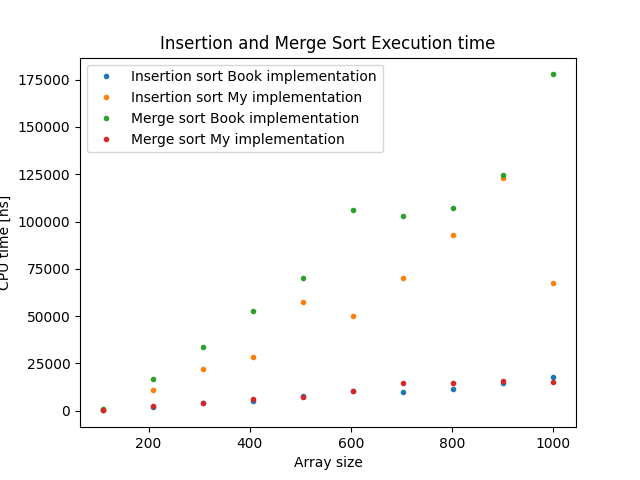
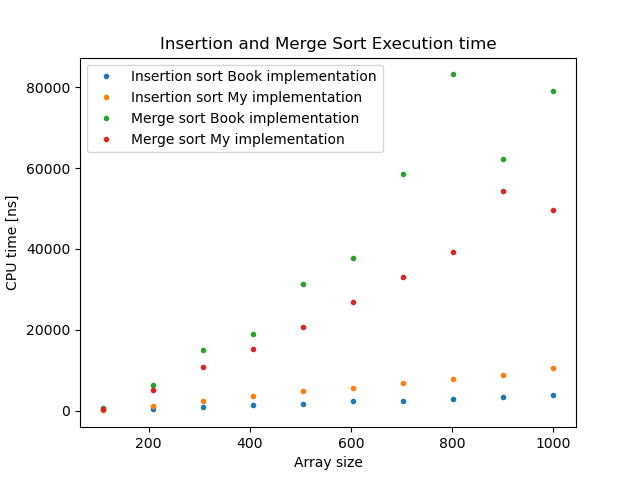
Benchmarks were rerunned to make sure they're up to date

diff --git a/execution_time_plot.py b/execution_time_plot.py
@@ -11,55 +11,55 @@ import matplotlib.pyplot as plt
 list_size = 1000
 
 book_insertion_sort_execution_time : list[int] = [
-	118,
-	2081,
-	4199,
-	5103,
-	7679,
-	10362,
-	10086,
-	11335,
-	14838,
-	17928
+	33.9,
+	435,
+	837,
+	1267,
+	1681,
+	2375,
+	2476,
+	2797,
+	3258,
+	3814
 ]
 
 insertion_sort_execution_time : list[int] = [
-	449,
-	10805,
-	22131,
-	28088,
-	57418,
-	49977,
-	70024,
-	92730,
-	123083,
-	67729
+	60.9,
+	1133,
+	2388,
+	3503,
+	4723,
+	5649,
+	6733,
+	7807,
+	8901,
+	10511
 ]
 
 book_merge_sort_execution_time : list[int] = [
-	949,
-	16820,
-	33463,
-	52794,
-	70155,
-	106114,
-	102769,
-	107059,
-	124373,
-	177801
+	538,
+	6382,
+	14878,
+	18908,
+	31335,
+	37715,
+	58541,
+	83224,
+	62167,
+	79170
 ]
 
 merge_sort_execution_time : list[int] = [
-	109,
-	2460,
-	4052,
-	6294,
-	7183,
-	10234,
-	14478,
-	14357,
-	15421,
-	15205
+	322,
+	5011,
+	10806,
+	15200,
+	20726,
+	26855,
+	33037,
+	39133,
+	54446,
+	49663
 ]
 n : list[int] = [i for i in range(10+int((list_size-10)/10),list_size+9,int((list_size-10)/10))]
 

diff --git a/Benchimarking.md b/Benchimarking.md
@@ -60,39 +60,39 @@ Load Average: 0.31, 0.24, 0.25
 ---------------------------------------------------------------------------------------------------------
 Benchmark                      Time             CPU   Iterations malloc avr size malloc calls malloc size
 ---------------------------------------------------------------------------------------------------------
-BM_MergeSort/10              449 ns          449 ns      1197393               2           10          26
-BM_MergeSort/109           10805 ns        10805 ns        58570               5          126         654
-BM_MergeSort/208           22131 ns        22131 ns        36999               5          254      1.456k
-BM_MergeSort/307           28088 ns        28088 ns        29391               6          356      2.302k
-BM_MergeSort/406           57418 ns        57418 ns        10000               6          510      3.248k
-BM_MergeSort/505           49977 ns        49977 ns        10062               7          510       4.04k
-BM_MergeSort/604           70024 ns        70024 ns        10930               7          694      5.108k
-BM_MergeSort/703           92729 ns        92730 ns         6717               6          892      6.197k
-BM_MergeSort/802          123083 ns       123083 ns         6181               7       1.022k      7.218k
-BM_MergeSort/901           67729 ns        67729 ns         9150               7       1.022k      8.109k
+BM_MergeSort/10              322 ns          322 ns      2352960               2           10          26
+BM_MergeSort/109            5011 ns         5011 ns       116561               5          126         654
+BM_MergeSort/208           10806 ns        10806 ns        60899               5          254      1.456k
+BM_MergeSort/307           15200 ns        15200 ns        40550               6          356      2.302k
+BM_MergeSort/406           20726 ns        20726 ns        29754               6          510      3.248k
+BM_MergeSort/505           26855 ns        26855 ns        25179               7          510       4.04k
+BM_MergeSort/604           33037 ns        33037 ns        25735               7          694      5.108k
+BM_MergeSort/703           39133 ns        39133 ns        15372               6          892      6.197k
+BM_MergeSort/802           54446 ns        54446 ns        10908               7       1.022k      7.218k
+BM_MergeSort/901           49664 ns        49663 ns        13669               7       1.022k      8.109k
 ----------------------------------------------------------------
 Benchmark                      Time             CPU   Iterations
 ----------------------------------------------------------------
-BM_MergeSort_BigO         104.30 N        104.30 N    
-BM_MergeSort_RMS              34 %            34 %    
+BM_MergeSort_BigO          55.27 N         55.27 N    
+BM_MergeSort_RMS              13 %            13 %    
 ---------------------------------------------------------------------------------------------------------
 Benchmark                      Time             CPU   Iterations malloc avr size malloc calls malloc size
 ---------------------------------------------------------------------------------------------------------
-BM_BookMergeSort/10          950 ns          949 ns       603401               1           18          34
-BM_BookMergeSort/109       16820 ns        16820 ns        49206               3          216         744
-BM_BookMergeSort/208       33463 ns        33463 ns        17680               3          414      1.616k
-BM_BookMergeSort/307       52794 ns        52794 ns        16539               4          612      2.558k
-BM_BookMergeSort/406       70155 ns        70155 ns        10625               4          810      3.548k
-BM_BookMergeSort/505      106113 ns       106114 ns         7348               4       1.008k      4.538k
-BM_BookMergeSort/604      102769 ns       102769 ns         6603               4       1.206k       5.62k
-BM_BookMergeSort/703      107058 ns       107059 ns         8319               4       1.404k      6.709k
-BM_BookMergeSort/802      124372 ns       124373 ns         8347               4       1.602k      7.798k
-BM_BookMergeSort/901      177802 ns       177801 ns         6139               4         1.8k      8.887k
+BM_BookMergeSort/10          538 ns          538 ns      1029276               1           18          34
+BM_BookMergeSort/109        6383 ns         6382 ns        88683               3          216         744
+BM_BookMergeSort/208       14878 ns        14878 ns        42546               3          414      1.616k
+BM_BookMergeSort/307       18908 ns        18908 ns        29827               4          612      2.558k
+BM_BookMergeSort/406       31335 ns        31335 ns        20708               4          810      3.548k
+BM_BookMergeSort/505       37715 ns        37715 ns        19317               4       1.008k      4.538k
+BM_BookMergeSort/604       58541 ns        58541 ns        10000               4       1.206k       5.62k
+BM_BookMergeSort/703       83226 ns        83224 ns         6562               4       1.404k      6.709k
+BM_BookMergeSort/802       62167 ns        62167 ns         8840               4       1.602k      7.798k
+BM_BookMergeSort/901       79171 ns        79170 ns         8187               4         1.8k      8.887k
 ----------------------------------------------------------------
 Benchmark                      Time             CPU   Iterations
 ----------------------------------------------------------------
-BM_BookMergeSort_BigO     170.71 N        170.71 N    
-BM_BookMergeSort_RMS          13 %            13 %   
+BM_BookMergeSort_BigO      86.84 N         86.84 N    
+BM_BookMergeSort_RMS          19 %            19 %   
 
 
 # Insertion sort
@@ -153,43 +153,43 @@ CPU Caches:
   L1 Instruction 32 KiB (x4)
   L2 Unified 1280 KiB (x4)
   L3 Unified 8192 KiB (x1)
-Load Average: 0.48, 0.33, 0.29
+Load Average: 0.04, 0.10, 0.04
 -------------------------------------------------------------------------------------------------------------
 Benchmark                          Time             CPU   Iterations malloc avr size malloc calls malloc size
 -------------------------------------------------------------------------------------------------------------
-BM_InsertionSort/10              109 ns          109 ns      5631804               0            0           0
-BM_InsertionSort/109            2461 ns         2460 ns       265145               0            0           0
-BM_InsertionSort/208            4052 ns         4052 ns       164189               0            0           0
-BM_InsertionSort/307            6294 ns         6294 ns        87806               0            0           0
-BM_InsertionSort/406            7183 ns         7183 ns        89404               0            0           0
-BM_InsertionSort/505           10234 ns        10234 ns        63813               0            0           0
-BM_InsertionSort/604           14478 ns        14478 ns        48564               0            0           0
-BM_InsertionSort/703           14357 ns        14357 ns        38826               0            0           0
-BM_InsertionSort/802           15422 ns        15421 ns        57968               0            0           0
-BM_InsertionSort/901           15206 ns        15205 ns        41929               0            0           0
+BM_InsertionSort/10             60.9 ns         60.9 ns     10135033               0            0           0
+BM_InsertionSort/109            1133 ns         1133 ns       582268               0            0           0
+BM_InsertionSort/208            2388 ns         2388 ns       312531               0            0           0
+BM_InsertionSort/307            3503 ns         3503 ns       195434               0            0           0
+BM_InsertionSort/406            4723 ns         4723 ns       150321               0            0           0
+BM_InsertionSort/505            5649 ns         5649 ns       120672               0            0           0
+BM_InsertionSort/604            6733 ns         6733 ns       101842               0            0           0
+BM_InsertionSort/703            7807 ns         7807 ns        85173               0            0           0
+BM_InsertionSort/802            8902 ns         8901 ns        72274               0            0           0
+BM_InsertionSort/901           10512 ns        10511 ns        68571               0            0           0
 --------------------------------------------------------------------
 Benchmark                          Time             CPU   Iterations
 --------------------------------------------------------------------
-BM_InsertionSort_BigO          19.65 N         19.65 N    
-BM_InsertionSort_RMS              12 %            12 %    
+BM_InsertionSort_BigO          11.53 N         11.53 N    
+BM_InsertionSort_RMS               4 %             4 %    
 -------------------------------------------------------------------------------------------------------------
 Benchmark                          Time             CPU   Iterations malloc avr size malloc calls malloc size
 -------------------------------------------------------------------------------------------------------------
-BM_BookInsertionSort/10          118 ns          118 ns      5728324               0            0           0
-BM_BookInsertionSort/109        2081 ns         2081 ns       346322               0            0           0
-BM_BookInsertionSort/208        4199 ns         4199 ns       128520               0            0           0
-BM_BookInsertionSort/307        5103 ns         5103 ns       102295               0            0           0
-BM_BookInsertionSort/406        7679 ns         7679 ns        78345               0            0           0
-BM_BookInsertionSort/505       10362 ns        10362 ns        63585               0            0           0
-BM_BookInsertionSort/604       10086 ns        10086 ns        53810               0            0           0
-BM_BookInsertionSort/703       11334 ns        11335 ns        47483               0            0           0
-BM_BookInsertionSort/802       14843 ns        14838 ns        54188               0            0           0
-BM_BookInsertionSort/901       17928 ns        17928 ns        44366               0            0           0
+BM_BookInsertionSort/10         33.9 ns         33.9 ns     19651408               0            0           0
+BM_BookInsertionSort/109         435 ns          435 ns      1388602               0            0           0
+BM_BookInsertionSort/208         837 ns          837 ns       709142               0            0           0
+BM_BookInsertionSort/307        1267 ns         1267 ns       798883               0            0           0
+BM_BookInsertionSort/406        1681 ns         1681 ns       366984               0            0           0
+BM_BookInsertionSort/505        2375 ns         2375 ns       436065               0            0           0
+BM_BookInsertionSort/604        2476 ns         2476 ns       295518               0            0           0
+BM_BookInsertionSort/703        2797 ns         2797 ns       300326               0            0           0
+BM_BookInsertionSort/802        3258 ns         3258 ns       188350               0            0           0
+BM_BookInsertionSort/901        3814 ns         3814 ns       193509               0            0           0
 --------------------------------------------------------------------
 Benchmark                          Time             CPU   Iterations
 --------------------------------------------------------------------
-BM_BookInsertionSort_BigO      18.20 N         18.20 N    
-BM_BookInsertionSort_RMS           9 %             9 %   
+BM_BookInsertionSort_BigO       4.20 N          4.20 N    
+BM_BookInsertionSort_RMS           5 %             5 %   
 
 
 # Malloc benchmark
@@ -203,27 +203,30 @@ CPU Caches:
   L1 Instruction 32 KiB (x4)
   L2 Unified 1280 KiB (x4)
   L3 Unified 8192 KiB (x1)
-Load Average: 0.10, 0.26, 0.27
+Load Average: 0.06, 0.11, 0.05
 ------------------------------------------------------------------------------
 Benchmark                                    Time             CPU   Iterations
 ------------------------------------------------------------------------------
-Malloc in mine algorithm/10/2              414 ns          414 ns      2283725
-Malloc in mine algorithm/126/5            4285 ns         4285 ns       124816
-Malloc in mine algorithm/254/5            8882 ns         8881 ns        92662
-Malloc in mine algorithm/356/6           10585 ns        10585 ns        63838
-Malloc in mine algorithm/510/6           13943 ns        13943 ns        50351
-Malloc in mine algorithm/510/7           14501 ns        14501 ns        41672
-Malloc in mine algorithm/694/7           19149 ns        19148 ns        37572
-Malloc in mine algorithm/892/6           21672 ns        21672 ns        27440
-Malloc in mine algorithm/1022/7          29252 ns        29252 ns        24413
-Malloc in mine algorithm/1022/7          32755 ns        32755 ns        21990
-Malloc in the Book algorithm/18/1          532 ns          532 ns      1273146
-Malloc in the Book algorithm/216/3        6221 ns         6221 ns       110597
-Malloc in the Book algorithm/414/3       11843 ns        11843 ns        65436
-Malloc in the Book algorithm/612/4       15782 ns        15782 ns        41677
-Malloc in the Book algorithm/810/4       24674 ns        24674 ns        30166
-Malloc in the Book algorithm/1008/4      40948 ns        40948 ns        17173
-Malloc in the Book algorithm/1206/4      51404 ns        51404 ns        10000
-Malloc in the Book algorithm/1404/4      52748 ns        52748 ns        10000
-Malloc in the Book algorithm/1602/4      56297 ns        56297 ns        11428
-Malloc in the Book algorithm/1800/4      63219 ns        63214 ns         9219
+Malloc in mine algorithm/10/2              178 ns          178 ns      3704662
+Malloc in mine algorithm/126/5            1956 ns         1956 ns       344462
+Malloc in mine algorithm/254/5            3904 ns         3904 ns       188182
+Malloc in mine algorithm/356/6            5707 ns         5707 ns        97173
+Malloc in mine algorithm/510/6            8477 ns         8477 ns        81388
+Malloc in mine algorithm/510/7            8206 ns         8206 ns        78108
+Malloc in mine algorithm/694/7           10809 ns        10809 ns        67404
+Malloc in mine algorithm/892/6           14087 ns        14087 ns        50117
+Malloc in mine algorithm/1022/7          16482 ns        16481 ns        40997
+Malloc in mine algorithm/1022/7          15552 ns        15553 ns        4356
+------------------------------------------------------------------------------
+Benchmark                                    Time             CPU   Iterations
+------------------------------------------------------------------------------
+Malloc in the Book algorithm/18/1          315 ns          315 ns      2252466
+Malloc in the Book algorithm/216/3        3342 ns         3342 ns       200528
+Malloc in the Book algorithm/414/3        6413 ns         6413 ns        96916
+Malloc in the Book algorithm/612/4        9658 ns         9658 ns        69482
+Malloc in the Book algorithm/810/4       12571 ns        12571 ns        60847
+Malloc in the Book algorithm/1008/4      15371 ns        15371 ns        44046
+Malloc in the Book algorithm/1206/4      18751 ns        18751 ns        34906
+Malloc in the Book algorithm/1404/4      22342 ns        22342 ns        29915
+Malloc in the Book algorithm/1602/4      25447 ns        25447 ns        26249
+Malloc in the Book algorithm/1800/4      29004 ns        29004 ns        24817
